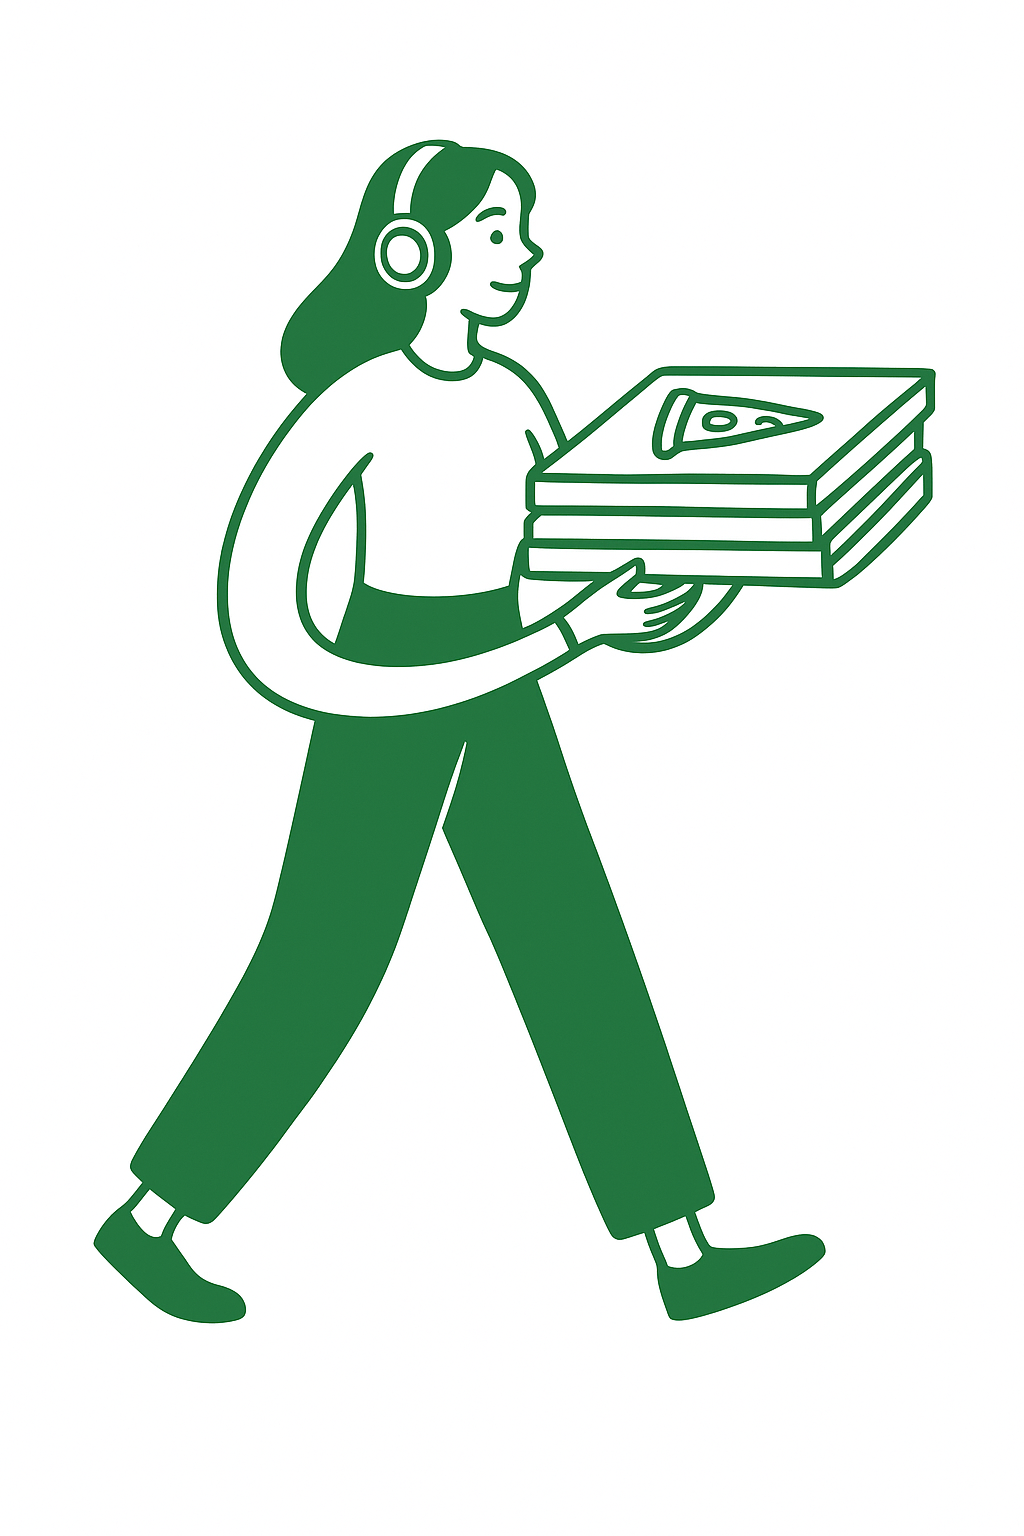
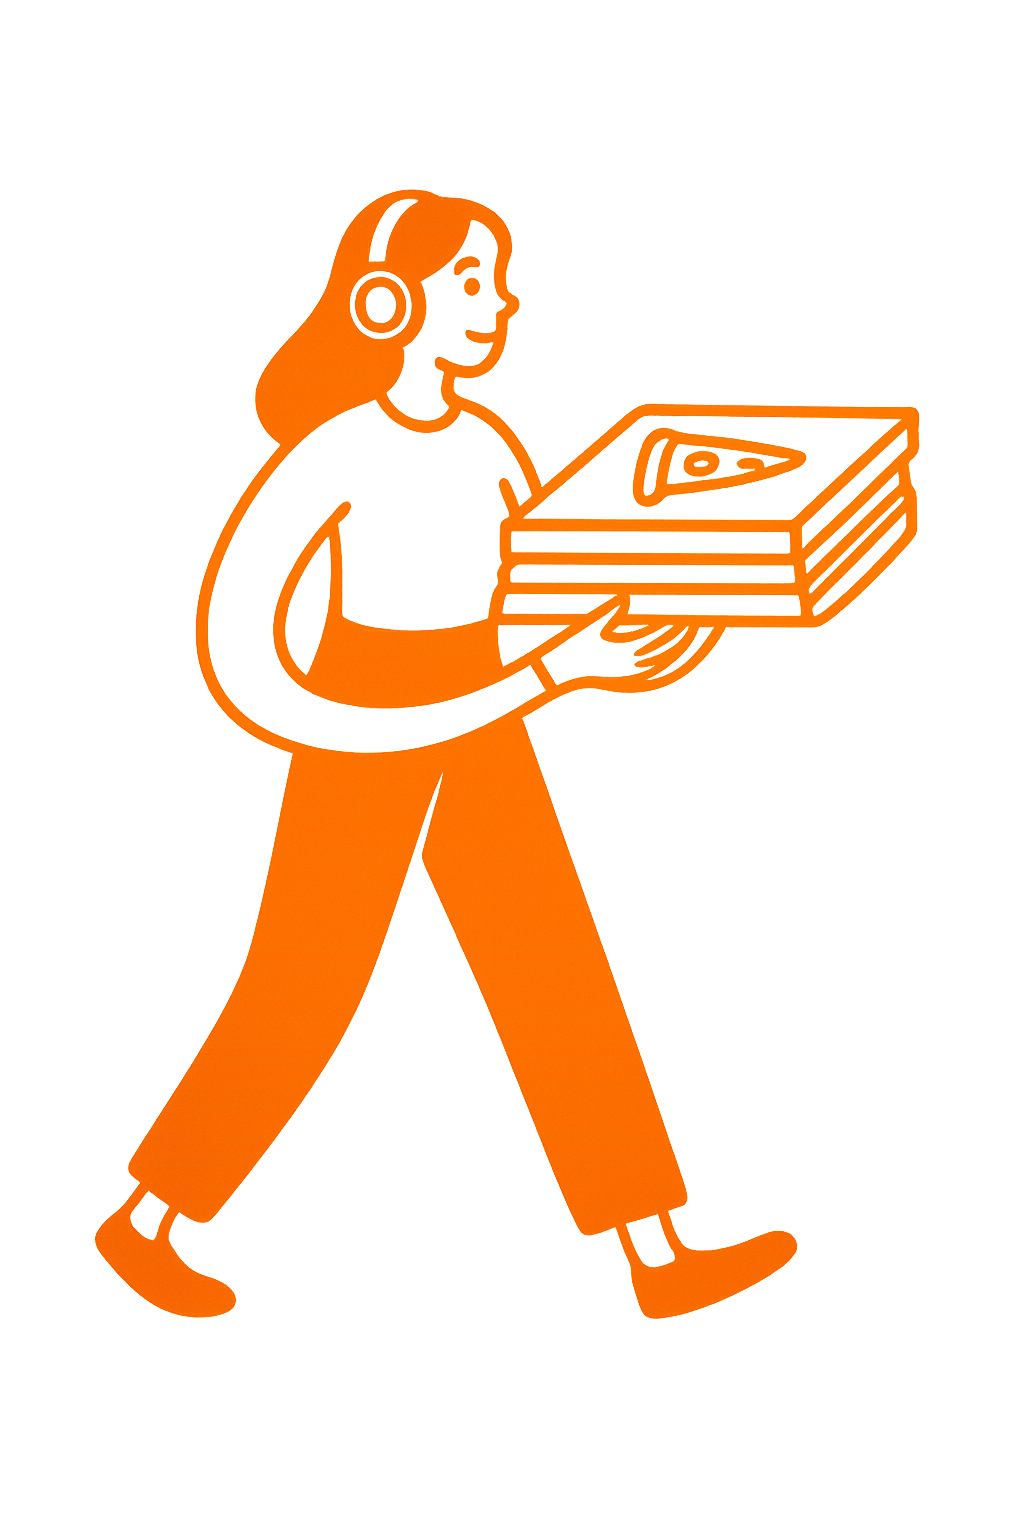
chore: add auth debug ping + harden supabase client

Changed region(s): [[0.0938, 0.0938, 0.9375, 0.875]]

diff --git a/src/app/app/claim/page.tsx b/src/app/app/claim/page.tsx
@@ -2,8 +2,10 @@
 
 import { useMemo, useState } from 'react'
 import { supabase } from '../../../lib/supabase'
+import  SteamLottie  from '../../../components/SteamLottie'
 
 type Variant = 'neutral' | 'success' | 'error' | 'warn'
+
 
 export default function ClaimPage() {
   const [code, setCode] = useState('')
@@ -40,7 +42,7 @@ export default function ClaimPage() {
 
       if (data === 'OK') {
         setVariant('success')
-        setMessage('✅ Código reclamado. Ya tienes tus puntos.')
+        setMessage('✅ Código reclamado. ¡Ya tienes tus puntos!')
         setCode('')
         return
       }
@@ -72,6 +74,7 @@ export default function ClaimPage() {
     }
   }
 
+  // === Estilos condicionales ===
   const alertClass =
     variant === 'success'
       ? 'bg-green-50 border border-green-200 text-green-700'
@@ -81,33 +84,35 @@ export default function ClaimPage() {
       ? 'bg-yellow-50 border border-yellow-200 text-yellow-800'
       : 'bg-slate-50 border border-slate-200 text-slate-600'
 
-  // 🔹 Animaciones visuales según estado
+  // === Microanimaciones ===
   const inputAnimClass = variant === 'error' ? 'cgi-shake' : ''
   const alertAnimClass = variant === 'success' ? 'cgi-breathe' : ''
 
   return (
-    <div className="min-h-screen bg-white px-4 py-8">
-      <div className="max-w-2xl mx-auto space-y-6">
-        {/* ===== Tarjeta: Reclamar código (estética bonita) ===== */}
-        <div className="rounded-2xl bg-white/95 backdrop-blur shadow-[0_6px_30px_rgba(0,0,0,0.08)] overflow-hidden">
+    <div className="min-h-screen claim-bg px-4 py-10">
+      <div className="max-w-2xl mx-auto space-y-7">
+
+        {/* ===== Tarjeta: Reclamar código ===== */}
+        <div className="rounded-2xl bg-white/80 backdrop-blur-lg shadow-[0_6px_25px_rgba(255,125,50,0.15)] 
+                        overflow-hidden border border-[#F8D9A0]/50 
+                        transition hover:shadow-[0_8px_32px_rgba(255,125,50,0.25)] duration-300">
           <div className="px-5 pt-5 pb-3">
             <div className="flex items-center gap-3">
-              <span className="inline-flex h-9 w-9 items-center justify-center rounded-full bg-green-100">
+              <span className="inline-flex h-9 w-9 items-center justify-center rounded-full bg-[#FFE7B8] text-[#D9480F]">
                 🎟
               </span>
               <div>
-                <h1 className="text-lg font-extrabold text-cugini-dark">
+                <h1 className="text-lg font-extrabold text-[#1C3325] drop-shadow-sm">
                   Reclamar código
                 </h1>
                 <p className="text-sm text-cugini-dark/70">
-                  Ingresa el código que viene en tu caja Cugini para sumar
-                  puntos.
+                  Ingresa el código que viene en tu caja Cugini para sumar puntos.
                 </p>
               </div>
             </div>
           </div>
 
-          <div className="h-px bg-slate-100" />
+          <div className="h-px bg-gradient-to-r from-[#FFD9A0]/50 via-[#FFF] to-[#FFD9A0]/50" />
 
           <form onSubmit={handleSubmit} className="px-5 pt-5 pb-6">
             <label className="text-sm text-cugini-dark/70 block mb-1">
@@ -117,15 +122,18 @@ export default function ClaimPage() {
               value={code}
               onChange={(e) => setCode(e.target.value)}
               placeholder="ej: CUGINI-1234"
-              className={`w-full rounded-lg border border-slate-200 px-3 py-2 focus:outline-none focus:ring-2 focus:ring-cugini-green/40 ${inputAnimClass}`}
+              className={`w-full rounded-lg border border-[#F8D9A0]/70 px-3 py-2 
+                          bg-white/60 focus:outline-none focus:ring-2 focus:ring-cugini-green/40 ${inputAnimClass}`}
             />
 
             <div className="mt-3">
               <button
                 type="submit"
                 disabled={!canSubmit}
-                className={`w-full sm:w-auto px-6 py-2 rounded-full font-semibold text-white shadow hover:shadow-md transition disabled:opacity-60`}
-                style={{ background: '#1C6B3C' }}
+                className="w-full sm:w-auto px-6 py-2 rounded-full font-semibold text-white shadow hover:shadow-lg transition disabled:opacity-60"
+                style={{
+                  background: 'linear-gradient(90deg, #1C6B3C 0%, #2FB45D 100%)',
+                }}
                 title={
                   canSubmit
                     ? 'Reclamar código'
@@ -151,15 +159,16 @@ export default function ClaimPage() {
         </div>
 
         {/* ===== Tarjeta: Horario ===== */}
-        <div className="rounded-2xl bg-white/95 backdrop-blur shadow-[0_6px_30px_rgba(0,0,0,0.08)] px-5 py-5">
+        <div className="rounded-2xl bg-white/80 backdrop-blur-lg shadow-[0_6px_25px_rgba(255,125,50,0.15)] 
+                        px-5 py-5 border border-[#F8D9A0]/50">
           <div className="flex items-center gap-2 mb-3">
             <span>⏰</span>
-            <h2 className="text-base font-bold text-cugini-dark">
+            <h2 className="text-base font-bold text-cugini-dark drop-shadow-sm">
               Horario de atención
             </h2>
           </div>
 
-          <div className="rounded-lg border border-slate-200 p-3 flex items-center justify-between">
+          <div className="rounded-lg border border-[#F8D9A0]/50 p-3 flex items-center justify-between bg-white/60 backdrop-blur">
             <span className="text-cugini-dark/80">Miércoles a Domingo</span>
             <span className="font-semibold text-cugini-dark">
               18:00 – 23:00 hrs
@@ -167,49 +176,68 @@ export default function ClaimPage() {
           </div>
         </div>
 
-        {/* === Imagen decorativa entre secciones === */}
-        <div className="flex justify-center">
-          <img
-            src="/brand/woman.png"
-            alt="Repartidor de pizzas"
-            loading="lazy"
-            className="w-44 sm:w-52 md:w-60 lg:w-64 opacity-25"
-          />
-        </div>
+        {/* === Imagen decorativa (más visible y con sombra cálida) === */}
+
+      {/* === Sticker “animacion” === */}
+      <div className="relative flex justify-center">
+  <img
+    src="/brand/woman.png"
+    alt="Repartidora Cugini"
+    className="w-44 sm:w-52 md:w-60 lg:w-64 opacity-90"
+  />
+
+  {/* Animación de vapor encima de la caja */}
+  <div className="absolute left-[66%] top-[22%] -translate-x-1/2 -translate-y-1/2">
+    <SteamLottie size={100} />
+  </div>
+</div>
+
 
         {/* ===== Tarjeta: Dirección ===== */}
-        <div className="rounded-2xl bg-white/95 backdrop-blur shadow-[0_6px_30px_rgba(0,0,0,0.08)] px-5 py-5">
-          <div className="flex items-center gap-2 mb-3">
-            <span>📍</span>
-            <h2 className="text-base font-bold text-cugini-dark">
-              Dónde estamos
-            </h2>
-          </div>
+        {/* ===== Tarjeta: Dirección ===== */}
+<div className="relative rounded-2xl bg-white/80 backdrop-blur-lg shadow-[0_6px_25px_rgba(255,125,50,0.15)] 
+                px-5 py-5 border border-[#F8D9A0]/50 overflow-hidden">
 
-          <div className="rounded-lg border border-slate-200 p-3 text-sm">
-            <p className="text-cugini-dark/90">
-              Exequiel Larenas 547, Coelemu, Ñuble
-            </p>
-            <a
-              href="https://maps.app.goo.gl/aBtLezprD2BF9M1D9"
-              target="_blank"
-              className="inline-block mt-2 text-cugini-green underline"
-            >
-              Ver en Google Maps
-            </a>
-          </div>
-        </div>
+  {/* Ícono animado en la esquina superior derecha */}
+  <SteamLottie
+    src="/animations/Travel Icons - Map.lottie"
+    size={80}
+    className="absolute right-[6] top-[-11] opacity-90 pointer-events-none"
+  />
+
+  <div className="flex items-center gap-2 mb-3 relative z-10">
+    <span>📍</span>
+    <h2 className="text-base font-bold text-cugini-dark drop-shadow-sm">
+      Dónde estamos
+    </h2>
+  </div>
+
+  <div className="rounded-lg border border-[#F8D9A0]/50 p-3 text-sm bg-white/70 backdrop-blur relative z-10">
+    <p className="text-cugini-dark/90">
+      Exequiel Larenas 547, Coelemu, Ñuble
+    </p>
+    <a
+      href="https://maps.app.goo.gl/aBtLezprD2BF9M1D9"
+      target="_blank"
+      className="inline-block mt-2 text-cugini-green underline hover:text-cugini-red transition-colors"
+    >
+      Ver en Google Maps
+    </a>
+  </div>
+</div>
+
 
         {/* ===== Tarjeta: Carta ===== */}
-        <div className="rounded-2xl bg-white/95 backdrop-blur shadow-[0_6px_30px_rgba(0,0,0,0.08)] px-5 pt-5 pb-7">
+        <div className="rounded-2xl bg-white/80 backdrop-blur-lg shadow-[0_6px_25px_rgba(255,125,50,0.15)] 
+                        px-5 pt-5 pb-7 border border-[#F8D9A0]/50">
           <div className="flex items-center gap-2 mb-3">
             <span>📖</span>
-            <h2 className="text-base font-bold text-cugini-dark">
+            <h2 className="text-base font-bold text-cugini-dark drop-shadow-sm">
               Nuestra carta
             </h2>
           </div>
 
-          <div className="rounded-lg border border-slate-200 overflow-hidden">
+          <div className="rounded-lg border border-[#F8D9A0]/50 overflow-hidden bg-white/60 backdrop-blur">
             <img
               src="/brand/menu.jpg"
               alt="Carta Cugini Pizza"

diff --git a/src/components/SteamLottie.tsx b/src/components/SteamLottie.tsx
@@ -1,0 +1,31 @@
+'use client'
+import { DotLottieReact } from '@lottiefiles/dotlottie-react'
+
+export default function SteamLottie({
+  size = 100,
+  loop = true,
+  autoplay = true,
+  className = '',
+  src = '/animations/Fumaa.lottie',
+}: {
+  size?: number
+  loop?: boolean
+  autoplay?: boolean
+  className?: string
+  src?: string
+}) {
+  return (
+    <div
+      className={`pointer-events-none ${className}`}
+      style={{ width: size, height: size }}
+      aria-hidden
+    >
+      <DotLottieReact
+        src={src}     // ← ruta pública, no se importa el archivo
+        loop={loop}
+        autoplay={autoplay}
+        style={{ width: '100%', height: '100%' }}
+      />
+    </div>
+  )
+}

diff --git a/src/app/globals.css b/src/app/globals.css
@@ -207,3 +207,9 @@ h1, h2, h3, h4 {
   50% { box-shadow: 0 0 0 6px rgba(34,197,94,.14); }
 }
 .cgi-breathe { animation: cgiBreathe 1.8s ease-in-out 2; }
+
+/* ==== Fondo cálido para página de reclamo ==== */
+.claim-bg {
+  background: radial-gradient(circle at 30% 30%, #fff6e8, #ffe3b0, #ffb870);
+  background-attachment: fixed;
+}
